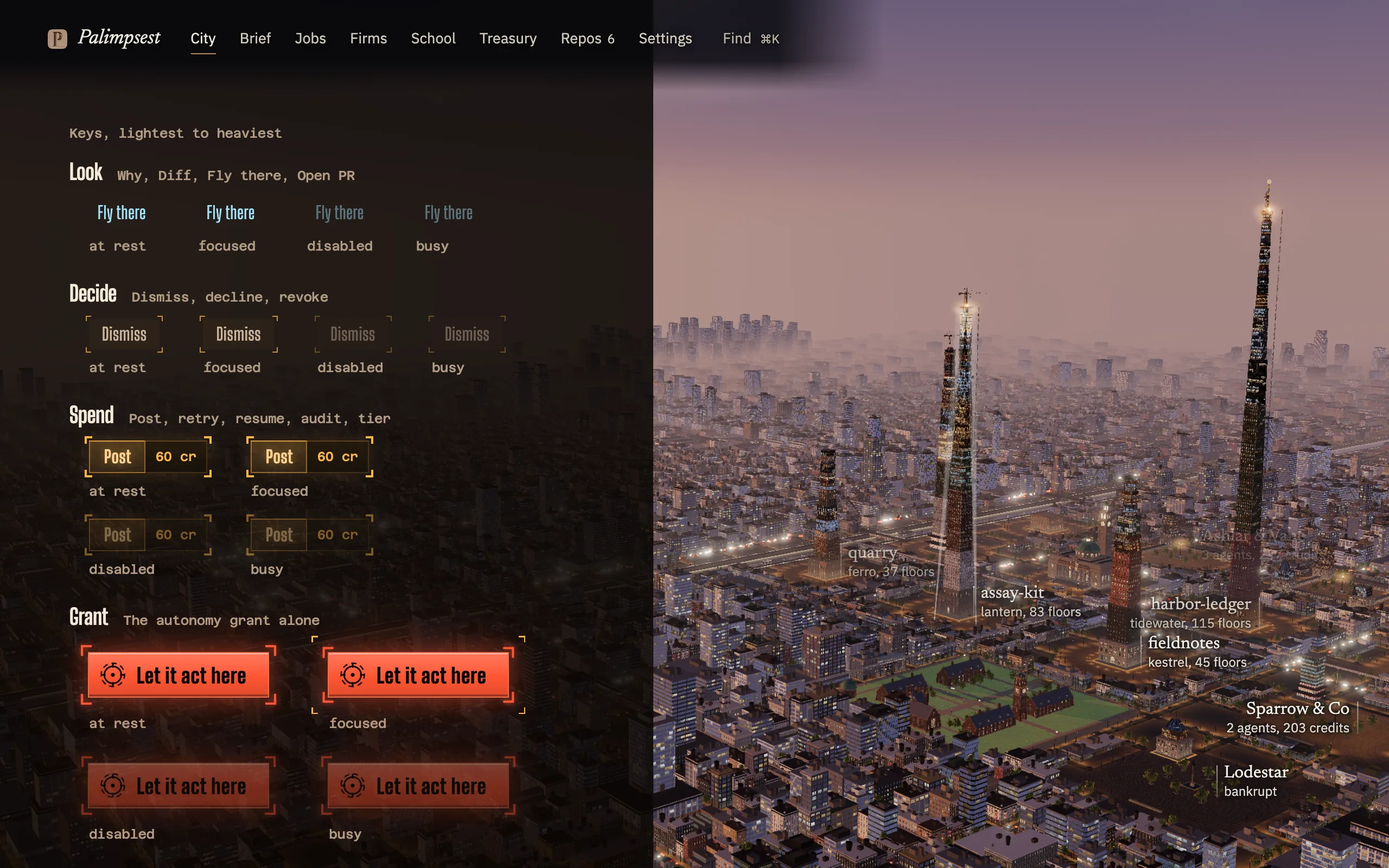
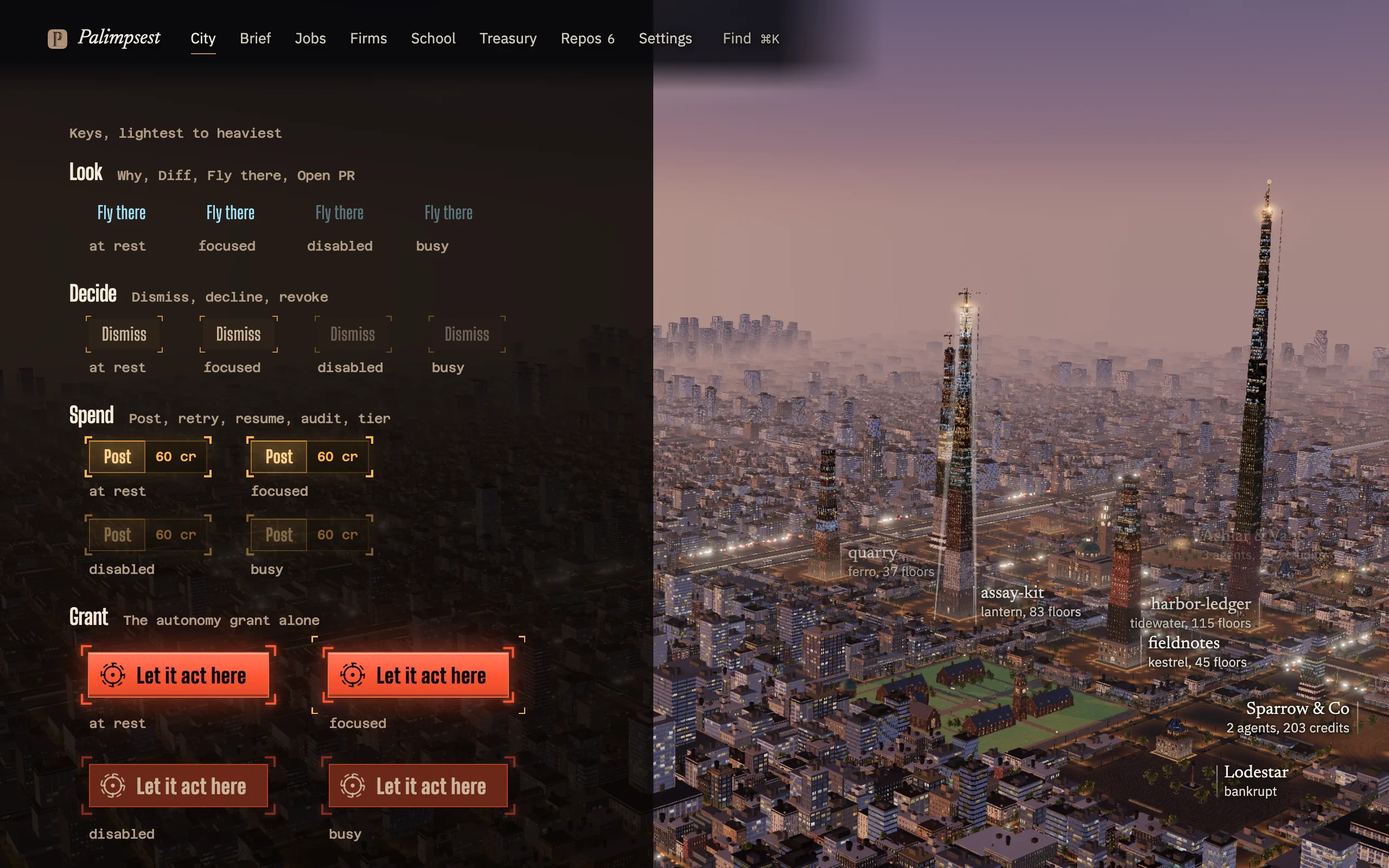
Hold every key's words at 4.5:1 on its own face; a dimmed grant darkens instead of fading
Claude-Session: https://claude.ai/code/session_01UGpw98hAmJjjWHX8njvzo1

Changed region(s): [[0.0625, 0.875, 0.375, 0.9375], [0.9375, 0.75, 0.9688, 0.7812]]

diff --git a/test/os-tokens.test.ts b/test/os-tokens.test.ts
@@ -79,3 +79,159 @@ test('parallax is clamped and opposed by depth', () => {
 test('type-in never outlasts its limit', () => {
   assert.ok(MOTION.typeMaxMs <= 600);
 });
+
+// ---------------------------------------------------------------- the keys' words on their own faces
+
+/**
+ * A small reader for control.css: its top-level rules (no @media), each
+ * declaration's value, and the colours they name, resolved through the
+ * tokens. Enough for the forms control.css uses: var(--os-x),
+ * rgba(var(--os-x-rgb), a), rgba(0, 0, 0, a), white, black, color-mix(in srgb,
+ * ...), and linear-gradient stops.
+ */
+const CONTROL = readFileSync(new URL('../app/src/ui/os/control.css', import.meta.url), 'utf8')
+  .replace(/\/\*[\s\S]*?\*\//g, '')
+  .replace(/@media[^{]*\{(?:[^{}]*\{[^{}]*\})*[^{}]*\}/g, '');
+
+/** Splits on commas outside brackets. */
+function args(list: string): string[] {
+  const out: string[] = [];
+  let depth = 0;
+  let cur = '';
+  for (const ch of list) {
+    if (ch === '(') depth++;
+    if (ch === ')') depth--;
+    if (ch === ',' && depth === 0) {
+      out.push(cur.trim());
+      cur = '';
+    } else cur += ch;
+  }
+  if (cur.trim()) out.push(cur.trim());
+  return out;
+}
+
+/** The declarations of the top-level rule whose selector list holds `selector` exactly; later wins. */
+function decls(selector: string): Record<string, string> {
+  const out: Record<string, string> = {};
+  for (const m of CONTROL.matchAll(/([^{}]+)\{([^{}]*)\}/g)) {
+    if (!args(m[1].trim()).includes(selector)) continue;
+    for (const d of m[2].split(';')) {
+      const i = d.indexOf(':');
+      if (i > 0) out[d.slice(0, i).trim()] = d.slice(i + 1).trim().replace(/\s+/g, ' ');
+    }
+  }
+  return out;
+}
+
+/** The cascade over rules in rising specificity: each later rule's declarations win. */
+const cascade = (...selectors: string[]): Record<string, string> => Object.assign({}, ...selectors.map(decls));
+
+type Paint = { rgb: Rgb; a: number };
+const TOKENS = cssTokens();
+
+/** One colour expression, resolved through the tokens. */
+function paint(expr: string): Paint {
+  const e = expr.trim();
+  if (e === 'white') return { rgb: [255, 255, 255], a: 1 };
+  if (e === 'black') return { rgb: [0, 0, 0], a: 1 };
+  if (e === 'transparent' || e === 'none') return { rgb: [0, 0, 0], a: 0 };
+  let m = /^var\((--os-[\w-]+)\)$/.exec(e);
+  if (m) {
+    assert.ok(TOKENS[m[1]], `no token ${m[1]}`);
+    return { rgb: hex(TOKENS[m[1]]), a: 1 };
+  }
+  m = /^rgba?\(var\((--os-[\w-]+-rgb)\),\s*([\d.]+)\)$/.exec(e);
+  if (m) {
+    const rgb = TOKENS[m[1]].split(',').map(Number) as unknown as Rgb;
+    return { rgb, a: Number(m[2]) };
+  }
+  m = /^rgba?\((\d+),\s*(\d+),\s*(\d+)(?:,\s*([\d.]+))?\)$/.exec(e);
+  if (m) return { rgb: [Number(m[1]), Number(m[2]), Number(m[3])], a: m[4] === undefined ? 1 : Number(m[4]) };
+  m = /^color-mix\((.*)\)$/.exec(e);
+  if (m) {
+    const [space, x, y] = args(m[1]);
+    assert.equal(space, 'in srgb', `color-mix in ${space}`);
+    const part = (s: string): { c: Paint; p?: number } => {
+      const pm = /^(.*?)\s+([\d.]+)%$/.exec(s);
+      return pm ? { c: paint(pm[1]), p: Number(pm[2]) / 100 } : { c: paint(s) };
+    };
+    const [px, py] = [part(x), part(y)];
+    const wx = px.p ?? (py.p !== undefined ? 1 - py.p : 0.5);
+    const mix = (i: number): number => Math.round(px.c.rgb[i] * wx + py.c.rgb[i] * (1 - wx));
+    return { rgb: [mix(0), mix(1), mix(2)], a: 1 };
+  }
+  throw new Error(`control.css colour the test cannot read: ${e}`);
+}
+
+/** Every colour that can sit under text in a background: each gradient stop, or the one colour. */
+function grounds(background: string | undefined): Paint[] {
+  if (!background) return [paint('none')];
+  const m = /^linear-gradient\((.*)\)$/.exec(background);
+  if (!m) return [paint(background)];
+  return args(m[1])
+    .filter((s) => !/^to\s|deg$/.test(s))
+    .map((s) => paint(s.replace(/\s+[\d.]+%$/, '')));
+}
+
+const lay = (under: Rgb, p: Paint): Rgb => over(under, p.rgb, p.a);
+
+/** The worst ground any key stands on: the panel at its thinnest over the city's brightest pixel. */
+const PANEL = over(BRIGHTEST, GROUND.rgb, GROUND.textMinAlpha);
+
+/**
+ * The worst contrast of a key's words on its own face, at every fill end,
+ * the whole key laid over the panel at its opacity. `windowBg` stacks a sum's
+ * window over the face.
+ */
+function worstOnFace(d: Record<string, string>, ink: Paint, windowBg?: Paint): { ratio: number; at: string } {
+  const opacity = d.opacity === undefined ? 1 : Number(d.opacity);
+  let worst = { ratio: Infinity, at: '' };
+  for (const fill of grounds(d.background)) {
+    let face = lay(PANEL, fill);
+    if (windowBg) face = lay(face, windowBg);
+    const text = lay(face, ink);
+    const r = contrast(lay(PANEL, { rgb: text, a: opacity }), lay(PANEL, { rgb: face, a: opacity }));
+    if (r < worst.ratio) worst = { ratio: r, at: `fill ${fill.rgb.join(',')}@${fill.a}, opacity ${opacity}` };
+  }
+  return worst;
+}
+
+const KEY = '.os-key[data-weight]';
+const W = (w: string): string => `.os-key[data-weight='${w}']`;
+const DIMMED = '.os-key[data-weight]:disabled';
+const GRANT_DIMMED = ".os-key[data-weight='grant']:is(:disabled, [aria-disabled='true'], [aria-busy='true'])";
+
+test("each key's words hold 4.5:1 on its own face, every fill end, over the thinnest panel", () => {
+  for (const w of ['look', 'decide', 'spend', 'grant']) {
+    const d = cascade(KEY, W(w));
+    assert.ok(d.color, `${w} sets no colour`);
+    const { ratio, at } = worstOnFace(d, paint(d.color));
+    assert.ok(ratio >= 4.5, `${w}: ${d.color} is ${ratio.toFixed(2)}:1 at ${at}`);
+  }
+});
+
+test("spend's sum holds 4.5:1 in its window over both ends of the spend fill", () => {
+  const sum = decls('.os-sum');
+  assert.ok(sum.color && sum.background, '.os-sum sets its ink and its window');
+  const d = cascade(KEY, W('spend'));
+  assert.ok(grounds(d.background).length >= 2, 'spend has a gradient with two ends');
+  const { ratio, at } = worstOnFace(d, paint(sum.color), paint(sum.background));
+  assert.ok(ratio >= 4.5, `the sum ${sum.color} is ${ratio.toFixed(2)}:1 at ${at}`);
+});
+
+test('a dimmed grant still reads at 4.5:1, its opacity laid over the panel', () => {
+  const d = cascade(KEY, W('grant'), DIMMED, GRANT_DIMMED);
+  assert.ok(Object.keys(decls(DIMMED)).length, 'control.css dims disabled keys');
+  const { ratio, at } = worstOnFace(d, paint(d.color));
+  assert.ok(ratio >= 4.5, `the dimmed grant: ${d.color} is ${ratio.toFixed(2)}:1 at ${at}`);
+});
+
+test('the contrast reader resolves what control.css writes', () => {
+  assert.deepEqual(paint('var(--os-ground)'), { rgb: hex(COLOUR.ground), a: 1 });
+  assert.deepEqual(paint('rgba(var(--os-amber-rgb), 0.24)'), { rgb: hex(COLOUR.amber), a: 0.24 });
+  assert.deepEqual(paint('color-mix(in srgb, var(--os-red), black 12%)').rgb, hex(COLOUR.red).map((c) => Math.round(c * 0.88)));
+  assert.deepEqual(paint('color-mix(in srgb, var(--os-red) 40%, var(--os-ground))').rgb, [0, 1, 2].map((i) => Math.round(hex(COLOUR.red)[i] * 0.4 + hex(COLOUR.ground)[i] * 0.6)));
+  assert.equal(grounds('linear-gradient(to bottom, white, var(--os-red) 55%, black)').length, 3);
+  // The base rule is found, and @media rules (forced colours) do not leak into it.
+  assert.equal(decls(KEY).border, '0');
+});

diff --git a/app/src/ui/os/control.css b/app/src/ui/os/control.css
@@ -286,6 +286,20 @@
 .os-key[data-weight][aria-busy='true'] {
   cursor: progress;
 }
+/*
+ * A dimmed grant cannot dim by opacity: its dark ink on red at 0.45 falls to
+ * 2:1 over the panel. Its face darkens instead, its glow goes out, and its
+ * words turn light (5.4:1); its reticle dims with the rest. Same shape.
+ */
+.os-key[data-weight='grant']:is(:disabled, [aria-disabled='true'], [aria-busy='true']) {
+  opacity: 1;
+  background: color-mix(in srgb, var(--os-red) 40%, var(--os-ground));
+  box-shadow: inset 0 0 0 1px rgba(var(--os-red-rgb), 0.45);
+  color: var(--os-ink2);
+}
+.os-key[data-weight='grant']:is(:disabled, [aria-disabled='true'], [aria-busy='true']) .os-key-ret {
+  opacity: 0.45;
+}
 /* A waiting grant holds its breath. */
 .os-key[data-weight]:is(:disabled, [aria-busy='true']) .os-key-tick,
 .os-key[data-weight]:is(:disabled, [aria-busy='true']) .os-seal-spin {

diff --git a/docs/superpowers/plans/redesign-stage2-3/critique.md b/docs/superpowers/plans/redesign-stage2-3/critique.md
@@ -122,5 +122,9 @@ Changes: the spend key's ring stands at 13 px.
 ### Left, below the anti-goal level
 
 - Disabled and busy look the same, as the brief asks ("they dim, and they keep their shape"). Busy shows a progress cursor and holds the grant's breath; a still cannot tell them apart.
-- The disabled grant is still red and filled at 0.45. It is still the grant, so the red rule holds, but it is the brightest dimmed thing on the screen.
+- (Fixed in review, below.) The disabled grant was red and filled at 0.45 opacity.
 - When a caller sets an aria-label on a key (the Brief does), the sum in the window is not part of the name the reader hears. T17 should fold the sum into that label.
+
+### Review fix: the keys' words on their own faces
+
+A new test (`test/os-tokens.test.ts`) reads each weight's ink and fill from control.css through the tokens and holds the words at 4.5:1 on their own face, at every gradient end, over the panel at its thinnest on white. It found one failure: the dimmed grant's dark ink on red at 0.45 opacity was 2.04:1. The dimmed grant no longer dims by opacity. Its face darkens to 40% red in the ground, its glow goes out, its words turn ink2 (5.48:1), and its reticle dims to 0.45. The re-shot `controls`, `controls-1280` and `controls-reduced-motion` show it: still the grant's shape and the only red face, plainly not lit, its words legible.
